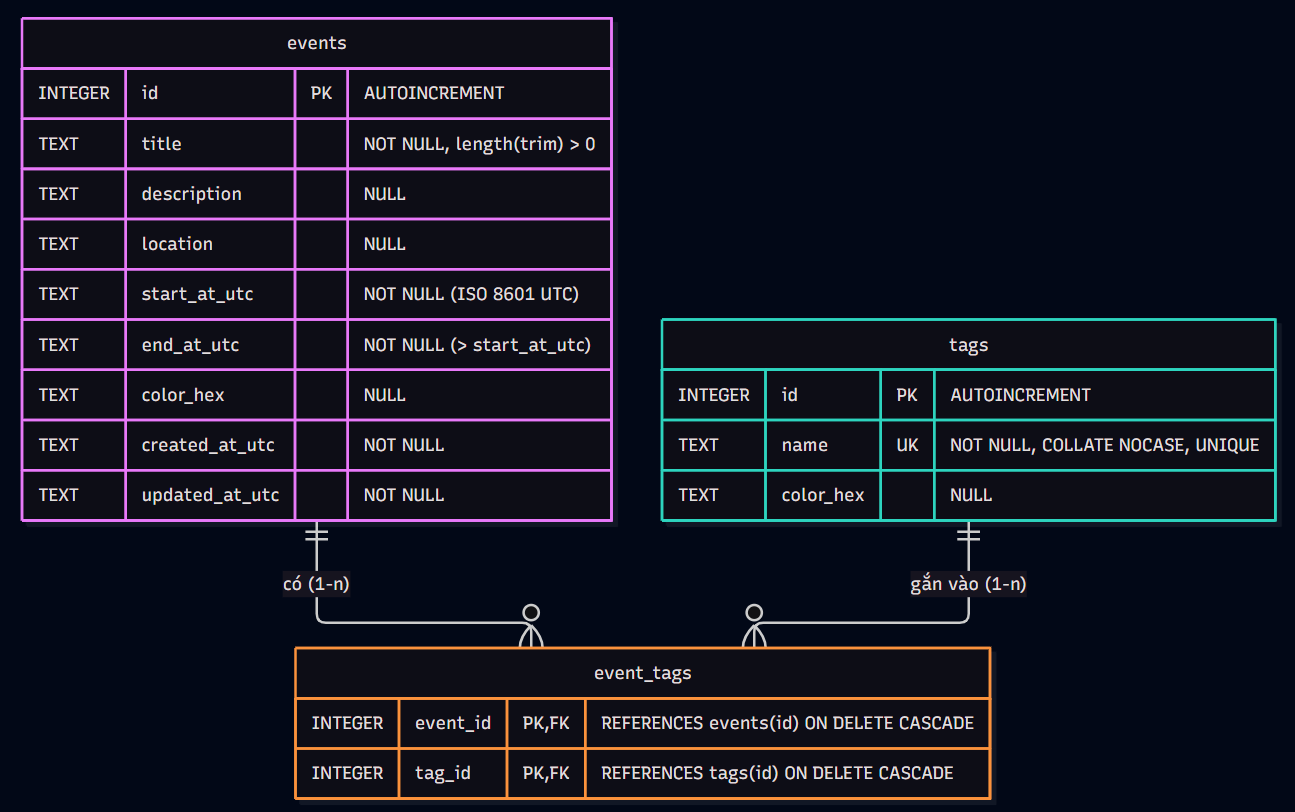
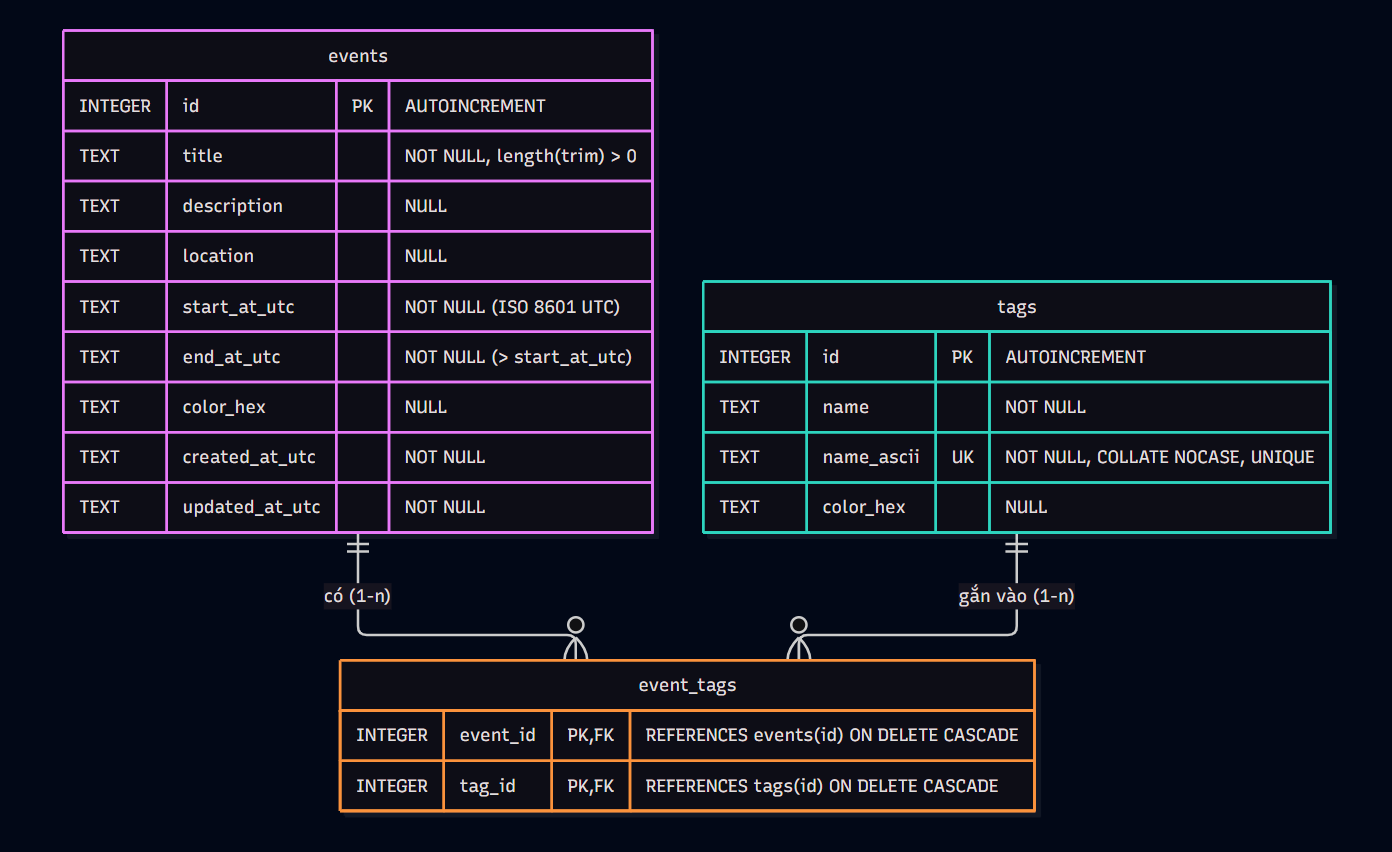
Add Interface and Implement for Tag.

Changed region(s): [[0.0, 0.0, 0.9884, 0.9852]]

diff --git a/MnemoCalendar/Repositories/SqliteTagRepository.cs b/MnemoCalendar/Repositories/SqliteTagRepository.cs
@@ -1,0 +1,108 @@
+using MnemoCalendar.Data;
+using MnemoCalendar.Models;
+using MnemoCalendar.Helpers;
+using Microsoft.Data.Sqlite;
+
+namespace MnemoCalendar.Repositories;
+
+public class SqliteTagRepository: ITagRepository
+{
+    private readonly string _connectionString;
+
+    public SqliteTagRepository(string db = "database")
+    {
+        _connectionString = ConnectionStringBuilder.GetConnectionString(PathHelper.LocalAppData(ConfigReader.Parse(db)!));
+    }
+    public long CreateTag(Tag tag)
+    {
+        var connection = new SqliteConnection(_connectionString);
+        connection.Open();
+
+        var command = connection.CreateCommand();
+        command.CommandText =
+            @"INSERT INTO tags (name, name_ascii, color_hex)
+            VALUES ($name,$name_ascii, $color_hex);
+            SELECT last_insert_rowid();";
+        command.Parameters.AddWithValue("$name", tag.Name);
+        command.Parameters.AddWithValue("$name_ascii", tag.NameAscii);
+        command.Parameters.AddWithValue("$color_hex", tag.ColorHex ?? (object)DBNull.Value);
+
+        long id = Convert.ToInt32(command.ExecuteScalar());
+        // Unique check, color check
+        return id;
+    }
+
+    public Tag? GetTagByID(long id)
+    {
+        var connection = new SqliteConnection(_connectionString);
+        connection.Open();
+
+        var command = connection.CreateCommand();
+
+        command.CommandText =
+            @"SELECT * FROM tags
+            WHERE id = $id";
+        command.Parameters.AddWithValue("$id", id);
+
+        var reader = command.ExecuteReader();
+
+        if (reader.Read())
+        {
+            return new Tag
+            {
+                Id = reader.GetInt32(0),
+                Name = reader.GetString(1),
+                NameAscii = reader.GetString(2),
+                ColorHex = !reader.IsDBNull(3) ? reader.GetString(3) : null
+            };
+        }
+        else return null;
+    }
+
+    public List<Tag>? GetAllTags()
+    {
+        var connection = new SqliteConnection(_connectionString);
+        connection.Open();
+
+        var command = connection.CreateCommand();
+
+        command.CommandText = @"SELECT * FROM tags";
+
+        var reader = command.ExecuteReader();
+
+        if (reader.HasRows)
+        {
+            var result = new List<Tag>();
+            while (reader.Read())
+            {
+                result.Add(new Tag
+                {
+                    Id = reader.GetInt32(0),
+                    Name = reader.GetString(1),
+                    NameAscii = reader.GetString(2),
+                    ColorHex = reader.GetString(3) ?? ""
+                });
+            }
+            return result;
+        }
+        else
+        {
+            return null;
+        }
+    }
+
+    public void DeleteTag(long id)
+    {
+        var connection = new SqliteConnection(_connectionString);
+        connection.Open();
+
+        var command = connection.CreateCommand();
+
+        command.CommandText =
+            @"DELETE FROM tags
+            WHERE id = $id";
+        command.Parameters.AddWithValue("$id", id);
+
+        command.ExecuteNonQuery();
+    }
+}

diff --git a/MnemoCalendar/Repositories/SqliteEventRepository.cs b/MnemoCalendar/Repositories/SqliteEventRepository.cs
@@ -28,7 +28,8 @@ public class SqliteEventRepository: IEventRepository
 
         command.CommandText =
             @"INSERT INTO events(title, description, location, start_at_utc, end_at_utc, color_hex, created_at_utc, updated_at_utc)
-            VALUES ($title, $description, $location, $start_at_utc, $end_at_utc, $color_hex, $created_at_utc, $updated_at_utc)";
+            VALUES ($title, $description, $location, $start_at_utc, $end_at_utc, $color_hex, $created_at_utc, $updated_at_utc);
+            SELECT last_insert_rowid();";
         command.Parameters.AddWithValue("$title", calendarEvent.Title);
         command.Parameters.AddWithValue("$description", calendarEvent.Description ?? (object)DBNull.Value);
         command.Parameters.AddWithValue("$location", calendarEvent.Location ?? (object)DBNull.Value);

diff --git a/MnemoCalendar/Repositories/ITagRepository.cs b/MnemoCalendar/Repositories/ITagRepository.cs
@@ -1,0 +1,24 @@
+using MnemoCalendar.Models;
+
+namespace MnemoCalendar.Repositories;
+
+public interface ITagRepository
+{
+    /// <summary>
+    /// Create a tag in database.
+    /// </summary>
+    /// <returns>long tag_id</returns>
+    public long CreateTag(Tag tag);
+
+    /// <summary>
+    /// Get details of a tag by its id.
+    /// </summary>
+    public Tag? GetTagByID(long id);
+
+    public List<Tag>? GetAllTags();
+
+    /// <summary>
+    /// Permanently delete a tag, but does not delete its correspond events.
+    /// </summary>
+    public void DeleteTag(long id);
+}
